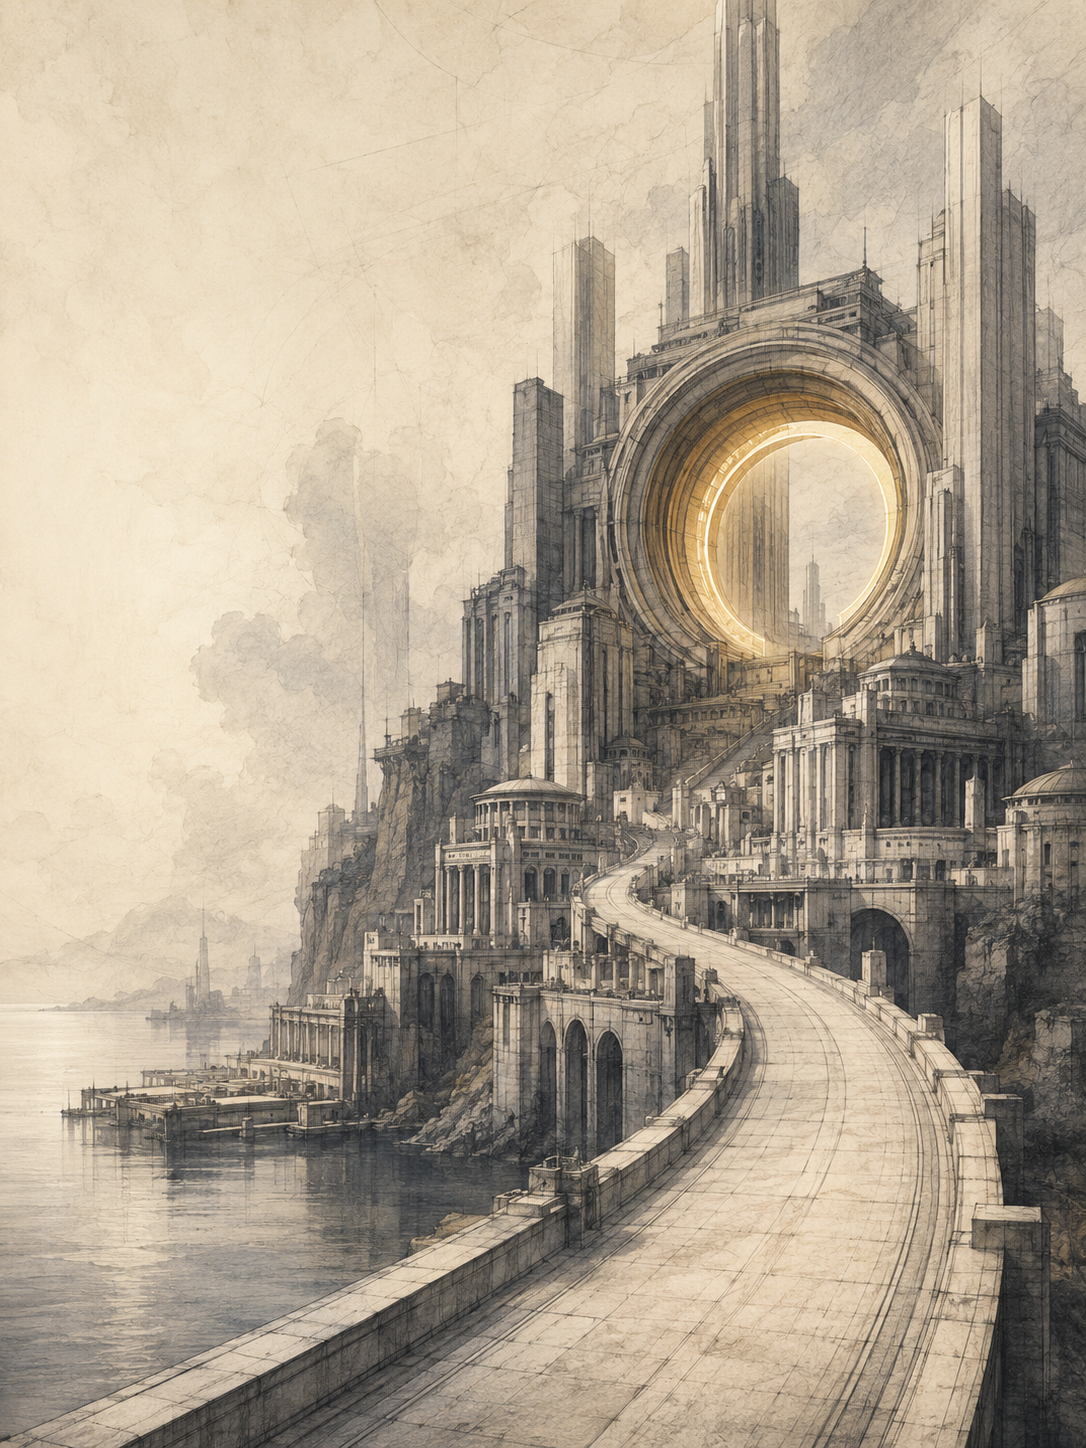
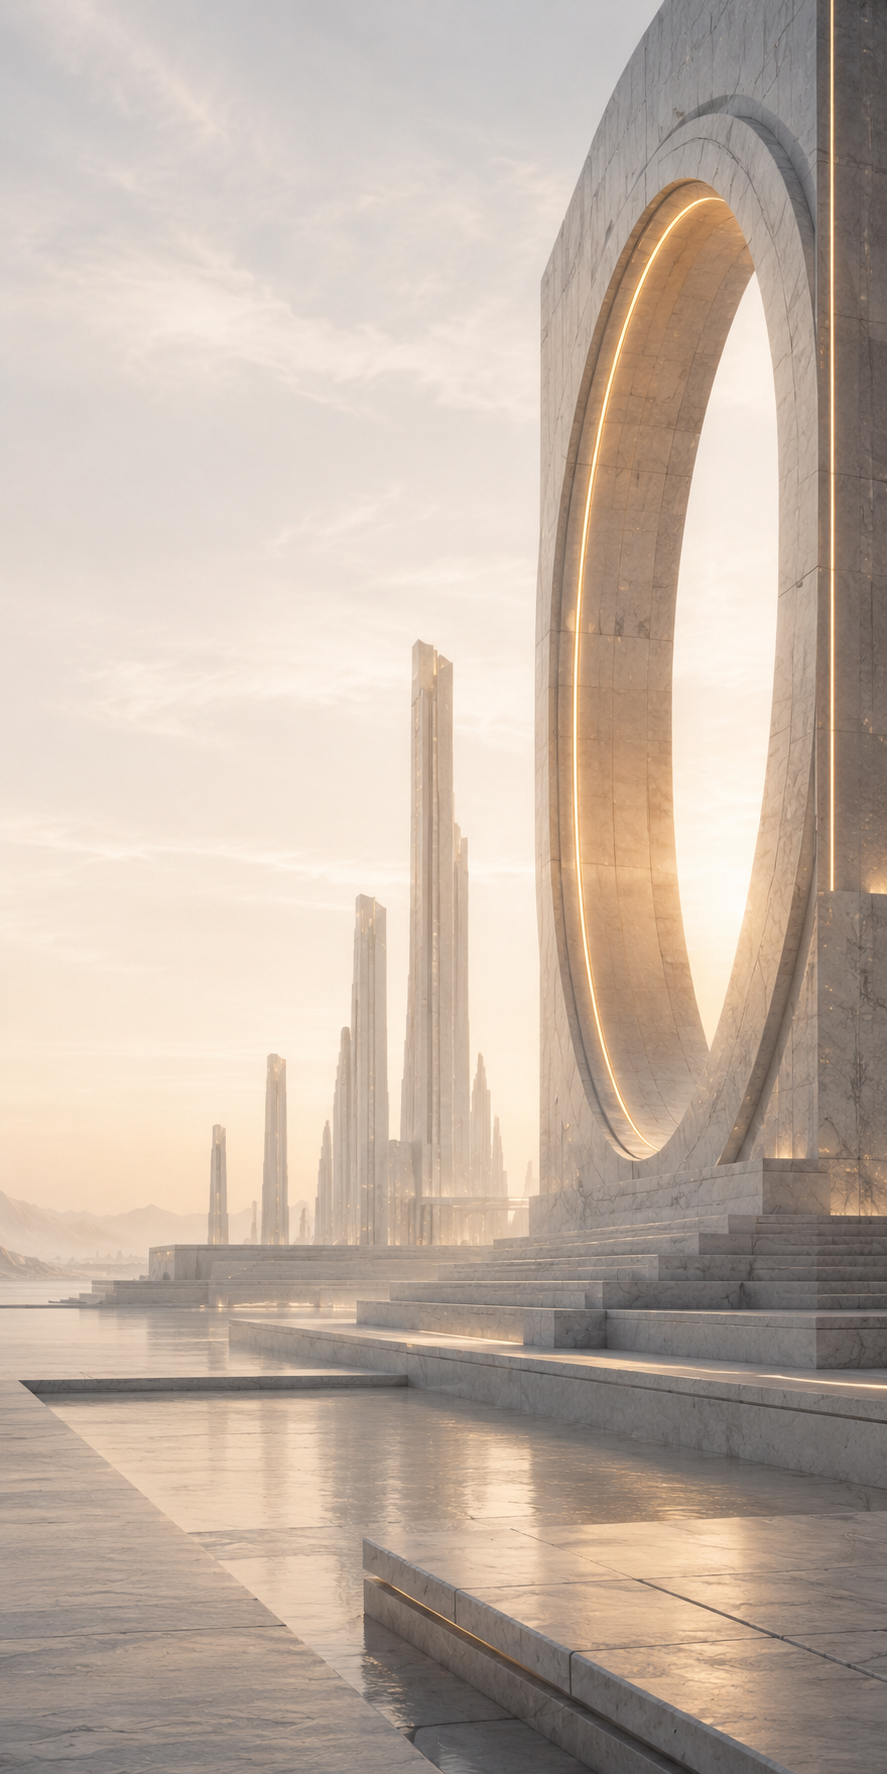
feat(ui): swap auth-hero to new portrait render
New asset (2026-05-19, second iteration). Closer-up photographic portrait
of the same portal/architecture from earlier today's sketch — more
cinematic, dawn light. Slot replaces the previous sepia sketch at
public/auth-hero.png. Background-position bumped to 55/50 (was 60/35)
so the portal sits in the upper-right and the lower-left scrim zone
remains clean for the white text block.

diff --git a/apps/ui/src/styles/pages.css b/apps/ui/src/styles/pages.css
@@ -384,7 +384,7 @@
   background-color: var(--color-accent);
   background-image: url("/auth-hero.png");
   background-size: cover;
-  background-position: 60% 35%;
+  background-position: 55% 50%;
   background-repeat: no-repeat;
   color: #ffffff;
   overflow: hidden;